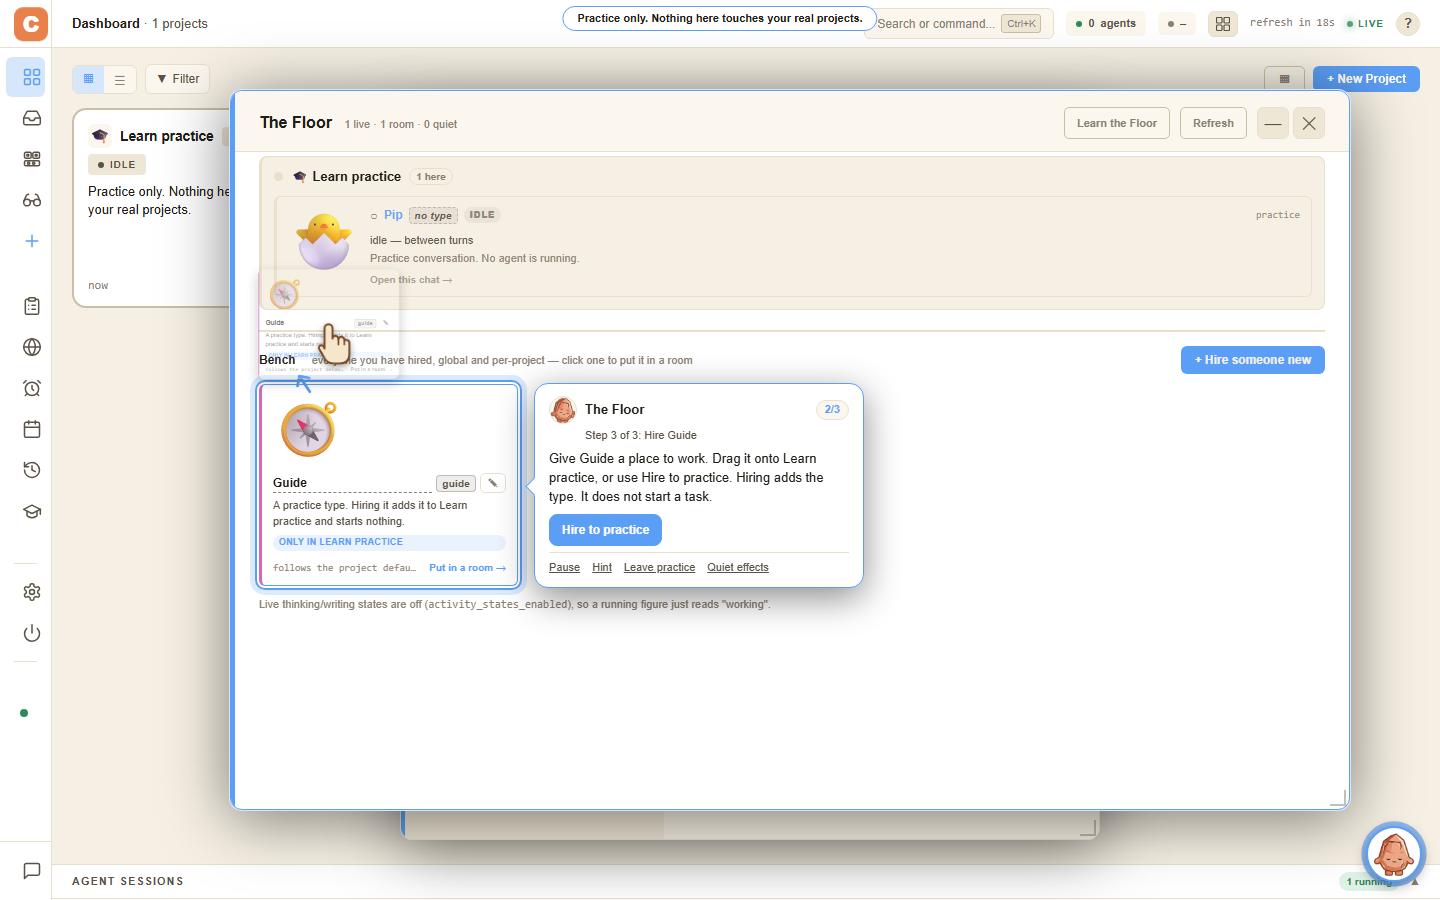
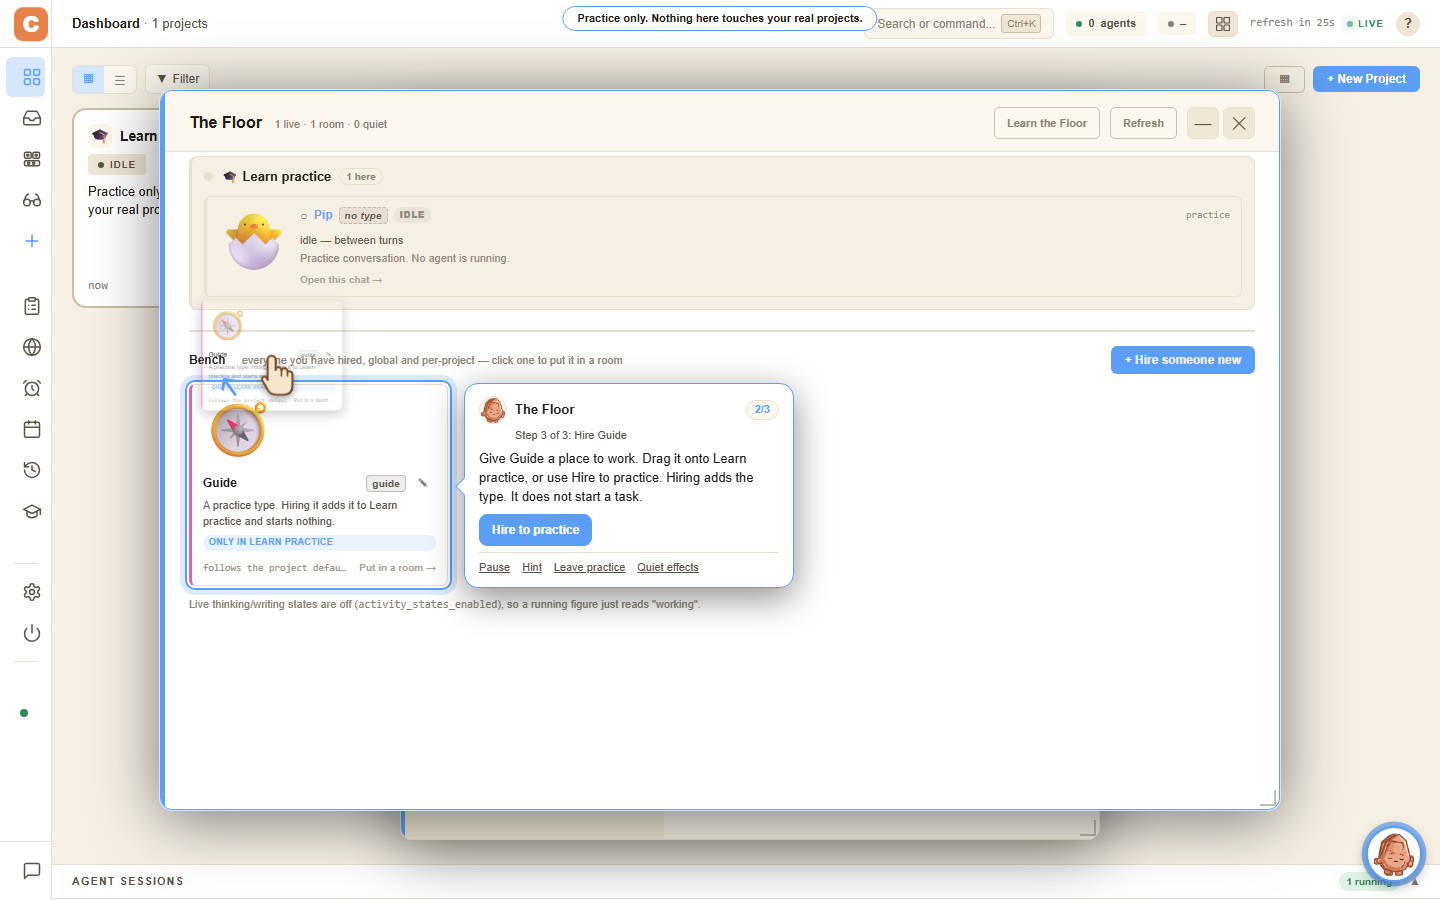
Learn hand cue: drag onto the exposed part of the tile; button cue when no drop zone
Step 3 fell back to a click on the Guide card whenever the practice tile's
centre was under the Floor window (always at 1440 default layout) or behind the
full-screen Floor (phone). Tapping the card hires nothing, so that cue taught
the wrong gesture and the drag Ron asked for never showed.

Desktop: the destination is now the part of the tile that hit-tests to the tile
(8px sample grid, bounding box + nearest hit point as the drop point), usable
at >= 40x40px. The hand, drop pulse and arrow use it; the bubble also avoids
the strip the card travels across. Below the threshold, and on phones, the
hand clicks the bubble's "Hire to practice" button, which is the action the
user can complete. The hand and rings now sit above the bubble (z 1902) so
they can point at its button.

Undoing this restores the click-at-the-card fallback. Smoke: learn-floor.mjs
11a2 (1440 default layout, drop point inside the visible tile), sliver < 40px,
phone button cue.

Changed region(s): [[0.0938, 0.0622, 0.625, 0.9333], [0.6875, 0.0622, 1.0, 0.9644]]

diff --git a/static/js/learn.js b/static/js/learn.js
@@ -146,6 +146,53 @@ function _unobscured(el) {
   const hit = document.elementFromPoint(x, y);
   return !!hit && (el.contains(hit) || (hit.closest && hit.closest('.lrn-bubble') === null && hit.contains(el)));
 }
+// The part of `tile` that is actually on screen and not under another window:
+// sample it on an 8px grid and keep the cells that hit-test to the tile. Returns
+// the bounding box of those cells plus the hit cell nearest its centre (the
+// drop point), or null when less than EXPOSED_MIN x EXPOSED_MIN is exposed.
+const EXPOSED_MIN = 40, EXPOSED_STEP = 8;
+function _exposedOf(tile) {
+  if (!tile || !tile.isConnected) return null;
+  const r = tile.getBoundingClientRect();
+  const x0 = Math.max(0, r.left), y0 = Math.max(0, r.top);
+  const x1 = Math.min(window.innerWidth, r.right), y1 = Math.min(window.innerHeight, r.bottom);
+  if (x1 - x0 < EXPOSED_MIN || y1 - y0 < EXPOSED_MIN) return null;
+  const hits = [];
+  let L = Infinity, T = Infinity, R = -Infinity, B = -Infinity;
+  const h = EXPOSED_STEP / 2;
+  for (let y = y0 + h; y < y1; y += EXPOSED_STEP) {
+    for (let x = x0 + h; x < x1; x += EXPOSED_STEP) {
+      const hit = document.elementFromPoint(x, y);
+      if (!hit || !tile.contains(hit)) continue;
+      hits.push([x, y]);
+      L = Math.min(L, x - h); T = Math.min(T, y - h); R = Math.max(R, x + h); B = Math.max(B, y + h);
+    }
+  }
+  // Area as well as extent, so a thin L-shaped strip cannot pass for a drop zone.
+  if (R - L < EXPOSED_MIN || B - T < EXPOSED_MIN || hits.length * EXPOSED_STEP * EXPOSED_STEP < EXPOSED_MIN * EXPOSED_MIN) return null;
+  const cx = (L + R) / 2, cy = (T + B) / 2;
+  let best = hits[0], bd = Infinity;
+  for (const p of hits) { const d = Math.hypot(p[0] - cx, p[1] - cy); if (d < bd) { bd = d; best = p; } }
+  return { rect: { left: L, top: T, right: R, bottom: B, width: R - L, height: B - T }, x: best[0], y: best[1] };
+}
+// A stand-in element for the exposed part of a tile, so the arrow, the bubble
+// placement and the hand can treat it like any other destination. Re-sampled at
+// most every 250ms; the caller hands over a fresh one on every lesson tick.
+function _exposedTarget(tile, first) {
+  let snap = first, at = performance.now();
+  const get = () => {
+    const n = performance.now();
+    if (n - at > 250) { snap = _exposedOf(tile); at = n; }
+    return snap;
+  };
+  const none = { left: 0, top: 0, right: 0, bottom: 0, width: 0, height: 0 };
+  return {
+    virtual: true, tile,
+    get isConnected() { return tile.isConnected && !!get(); },
+    getBoundingClientRect() { const sn = get(); return sn ? sn.rect : none; },
+    get point() { const sn = get(); return sn ? { x: sn.x, y: sn.y } : null; },
+  };
+}
 function _floorFront() {
   const e = (typeof openModals !== 'undefined') ? openModals.get('__floor') : null;
   return !!(e && !e.minimized && e.element.classList.contains('focused'));
@@ -173,8 +220,11 @@ function _resolveStep() {
   const destSel = _isMobile()
     ? `#projects-col .mc-chat-row[data-id="${P.PID}"]`
     : `#projects-col .card[data-id="${P.PID}"]`;
-  const dest = _q(destSel);
-  return { el: card, cue: card, dest: dest && _measurable(dest) && _unobscured(dest) ? dest : null };
+  const tile = _q(destSel);
+  // Desktop: the tile is usually half under the Floor window; the drag lands on the
+  // part that is showing. Phone: the row is behind the full-screen Floor, so null.
+  const ex = tile && _measurable(tile) ? _exposedOf(tile) : null;
+  return { el: card, cue: card, dest: ex ? _exposedTarget(tile, ex) : null };
 }
 
 // ── Bubble, outline, arrow ───────────────────────────────────────────────────
@@ -343,6 +393,14 @@ function _placeBubble(rects) {
   } else delete b.dataset.tail;
 }
 
+// The strip the dragged card travels across, so the bubble is not placed on it.
+function _pathRect(from, to) {
+  const a = from.getBoundingClientRect(), pt = to.virtual ? to.point : null, b = to.getBoundingClientRect();
+  const ax = a.left + a.width / 2, ay = a.top + a.height / 2;
+  const bx = pt ? pt.x : b.left + b.width / 2, by = pt ? pt.y : b.top + b.height / 2;
+  const left = Math.min(ax, bx) - 30, right = Math.max(ax, bx) + 30, top = Math.min(ay, by) - 50, bottom = Math.max(ay, by) + 30;
+  return { left, top, right, bottom, width: right - left, height: bottom - top };
+}
 function _rectOf(el) { const r = el.getBoundingClientRect(); return { left: r.left, top: r.top, right: r.right, bottom: r.bottom, width: r.width, height: r.height }; }
 
 function _showOutline(el) {
@@ -431,9 +489,10 @@ const HAND_ORDER = ['glide', 'press', 'hold', 'lift', 'rest', 'carry', 'release'
 
 function _handCentre(el) {
   const r = el.getBoundingClientRect();
-  return { x: r.left + r.width / 2, y: r.top + r.height / 2, r };
+  const pt = el.virtual ? el.point : null;   // an exposed-part target lands on a point that really is the tile
+  return { x: pt ? pt.x : r.left + r.width / 2, y: pt ? pt.y : r.top + r.height / 2, r };
 }
-function _handLive(el) { return !!el && el.isConnected && _measurable(el); }
+function _handLive(el) { return !!el && el.isConnected && (el.virtual || _measurable(el)); }
 // An arc that bulges upward so the carry reads as lifting, not sliding.
 function _handPath(a, b, p) {
   const dx = b.x - a.x, dy = b.y - a.y, len = Math.hypot(dx, dy) || 1;
@@ -598,8 +657,15 @@ let _handHoldUntil = 0;
 
 function _syncHand(res) {
   if (S.hirePending || Date.now() < _handHoldUntil) { Hand.stop(); return; }
-  if (res.dest) Hand.drag(res.el, res.dest);
-  else Hand.click(res.cue || res.el);
+  if (res.dest) { Hand.drag(res.el, res.dest); return; }
+  if (_step().hire) {
+    // No usable drop zone (phone, or too little of the tile showing): tapping the
+    // card hires nothing, so show the gesture the user can actually complete.
+    const btn = _q('#lrn-bubble [data-lrn="hire"]', _root);
+    if (btn && _measurable(btn)) Hand.click(btn); else Hand.stop();
+    return;
+  }
+  Hand.click(res.cue || res.el);
 }
 
 // ── Engine: steps ────────────────────────────────────────────────────────────
@@ -710,9 +776,9 @@ function _tick() {
     _scrollOnce(res.el);
     _showOutline(_isMobile() && st.id === 'hire' ? res.el : res.el);
     _showArrow(res.cue || res.el, res.dest || null, false);
-    _syncHand(res);
     _renderBubble();
-    _placeBubble([_rectOf(res.el), res.dest ? _rectOf(res.dest) : null]);
+    _placeBubble([_rectOf(res.el), res.dest ? _rectOf(res.dest) : null, res.dest ? _pathRect(res.el, res.dest) : null]);
+    _syncHand(res);   // after the bubble is placed: the hand may point at a button inside it
     return;
   }
 

diff --git a/static/css/app.css b/static/css/app.css
@@ -10510,16 +10510,18 @@ html.mc-popout .btn-popout:not(.btn-chat-search) { display: none !important; }
 @keyframes lrn-nudge { 0%, 100% { transform: translateX(0); } 50% { transform: translateX(6px); } }
 
 /* Hand cue (learn.js `Hand`): positions and phases are driven per frame from JS,
-   so there is no CSS animation here to switch off. Below the bubble (z 1901),
-   never on top of its copy; pointer-events: none so it can sit over a live drag. */
+   so there is no CSS animation here to switch off. The hand and its rings sit ABOVE
+   the bubble (z 1901) because step 3 can point at the bubble's own Hire button;
+   the ghost and drop pulse stay below it. pointer-events: none so it can sit
+   over a live drag. */
 .lrn-hand, .lrn-hand-ghost, .lrn-hand-ring, .lrn-hand-drop { position: fixed; left: 0; top: 0; pointer-events: none; }
-.lrn-hand { z-index: 3; width: 44px; height: 53px; transform-origin: 15.4px 5px; will-change: transform, opacity;
+.lrn-hand { z-index: 1902; width: 44px; height: 53px; transform-origin: 15.4px 5px; will-change: transform, opacity;
   filter: drop-shadow(0 3px 4px rgba(0,0,0,0.35)); }
 .lrn-hand svg { display: block; width: 100%; height: 100%; }
 .lrn-hand-ghost { z-index: 2; opacity: 0; transform-origin: 50% 50%; border-radius: 12px; overflow: hidden;
   box-shadow: 0 8px 22px rgba(0,0,0,0.35); }
 .lrn-hand-ghost > * { pointer-events: none; }
-.lrn-hand-ring { z-index: 2; width: 38px; height: 38px; margin: -19px 0 0 -19px; box-sizing: border-box;
+.lrn-hand-ring { z-index: 1902; width: 38px; height: 38px; margin: -19px 0 0 -19px; box-sizing: border-box;
   border: 3px solid var(--accent); border-radius: 50%; }
 .lrn-hand-ring.lrn-hand-hold { width: 48px; height: 48px; margin: -24px 0 0 -24px; border: 0;
   background: conic-gradient(var(--accent) calc(var(--lrn-p, 0) * 360deg), color-mix(in srgb, var(--accent) 22%, transparent) 0);
